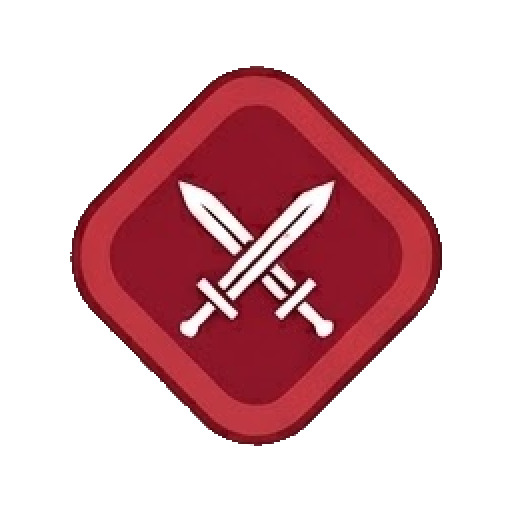
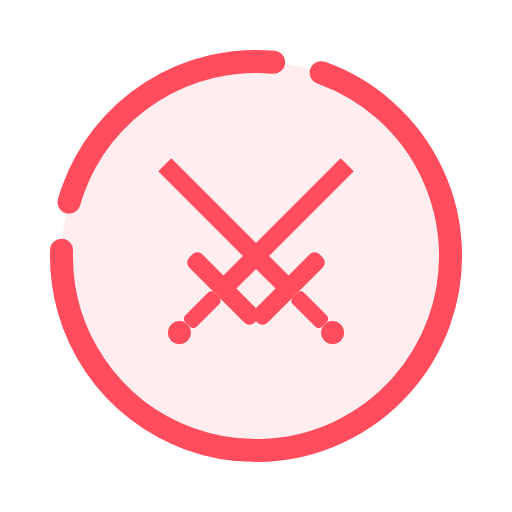
Icônes de mots-clés : nouvelle série ronde (21 icônes, dont Vorace, Insensible, Cycle et Faille)
Claude-Session: https://claude.ai/code/session_01PPhFs1DKjozqwwgFmANt2k

diff --git a/spellcraft-card-editor.html b/spellcraft-card-editor.html
@@ -6431,7 +6431,8 @@ const KW_BADGE_FILES = {
   lifesteal:'kw-volDeVie.png', initiative:'kw-initiative.png', armor:'kw-armure.png',
   stealth:'kw-parade.png', relentless:'kw-tenace.png', fearful:'kw-peureux.png',
   protecteur:'kw-protecteur.png', toxic:'kw-toxique.png',
-  discret:'kw-discret.png', imparable:'kw-imparable.png', fugace:'kw-fugace.png'
+  discret:'kw-discret.png', imparable:'kw-imparable.png', fugace:'kw-fugace.png',
+  assault:'kw-assaut.png', final:'kw-final.png', vorace:'kw-vorace.png', insensible:'kw-insensible.png', cycle:'kw-cycle.png'
 };
 function renderPreview(){
   const card = readForm();

diff --git a/spellcraft-server-board.html b/spellcraft-server-board.html
@@ -1267,7 +1267,8 @@ const KEYWORD_ICON_FILES = {
   stealth:'kw-parade.png', relentless:'kw-tenace.png', fearful:'kw-peureux.png',
   protecteur:'kw-protecteur.png', toxic:'kw-toxique.png',
   discret:'kw-discret.png', imparable:'kw-imparable.png', fugace:'kw-fugace.png',
-  assault:'kw-assaut.png', final:'kw-final.png'
+  assault:'kw-assaut.png', final:'kw-final.png',
+  vorace:'kw-vorace.png', insensible:'kw-insensible.png', cycle:'kw-cycle.png'
   // "debut" est volontairement absent : pas d'icône pour ce mot-clé.
 };
 const KEYWORD_LABELS = {

diff --git a/spellcraft-tutorial.html b/spellcraft-tutorial.html
@@ -1211,7 +1211,8 @@ const KEYWORD_ICON_FILES = {
   stealth:'kw-parade.png', relentless:'kw-tenace.png', fearful:'kw-peureux.png',
   protecteur:'kw-protecteur.png', toxic:'kw-toxique.png',
   discret:'kw-discret.png', imparable:'kw-imparable.png', fugace:'kw-fugace.png',
-  assault:'kw-assaut.png', final:'kw-final.png'
+  assault:'kw-assaut.png', final:'kw-final.png',
+  vorace:'kw-vorace.png', insensible:'kw-insensible.png', cycle:'kw-cycle.png'
   // "debut" est volontairement absent : pas d'icône pour ce mot-clé.
 };
 const KEYWORD_LABELS = {
